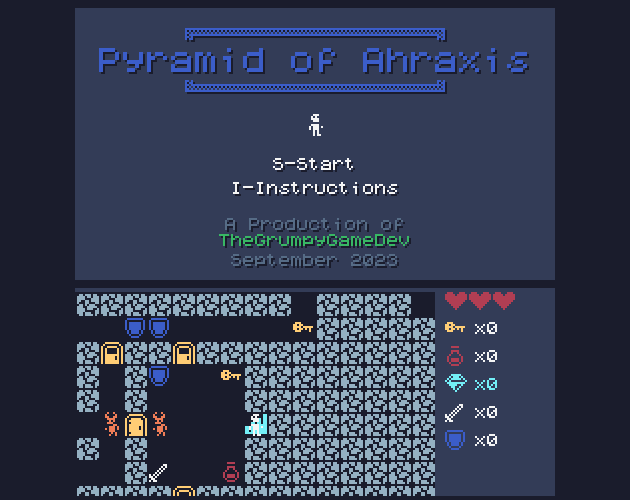
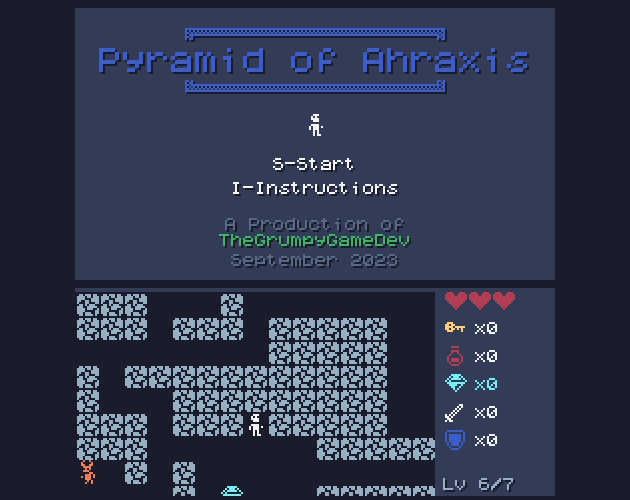
Prepare the seven-level release: new cover and screenshots, itch copy, devlog draft, rebuilt Pages

Changed region(s): [[0.1206, 0.57, 0.8143, 1.0]]

diff --git a/tools/make_assets.py b/tools/make_assets.py
@@ -6,8 +6,11 @@ from PIL import Image
 ROOT = os.path.dirname(os.path.dirname(os.path.abspath(__file__)))
 d = sys.argv[1]
 frame = lambda n: Image.open(os.path.join(d, n + '.ppm')).convert('RGB')
-os.makedirs(os.path.join(ROOT, 'assets/screenshots'), exist_ok=True)
-for i, n in enumerate(['menu', 'play', 'help', 'score'], 1):
+shots = os.path.join(ROOT, 'assets/screenshots')
+os.makedirs(shots, exist_ok=True)
+for old in os.listdir(shots):
+    os.remove(os.path.join(shots, old))
+for i, n in enumerate(['menu', 'banner', 'play', 'help', 'score'], 1):
     frame(n).resize((960, 544), Image.NEAREST).save(os.path.join(ROOT, f'assets/screenshots/0{i}-{n}.png'))
 # Cover: the title screen at 2x over a strip of the dungeon at 2x, integer scaling only.
 cover = Image.new('RGB', (630, 500), (26, 28, 44))

diff --git a/ITCH_DESCRIPTION.md b/ITCH_DESCRIPTION.md
@@ -9,23 +9,24 @@ Walk the Pyramid of Ahraxis: find keys, dodge traps, fight monsters, grab the jo
 
 ## Paste this as the page description
 
-Into the pyramid you go.
+Into the pyramid you go. Seven levels wait: a short tutorial, five dungeons laid out by Watabou's One Page Dungeon generator, and the original map from the TIC-80 cart.
 
-Walk the tomb one step at a time. Pick up **keys** to open doors, **potions** to heal, **shields** to turn a monster's blow aside, **swords** to kill monsters, and **jools** for the score. Watch your step: some floor tiles are **traps**. Find the exit to see how you did.
+Walk the tomb one step at a time. Pick up **keys** to open doors, **potions** to heal, **shields** to turn a monster's blow aside, **swords** to kill monsters, and **jools** for the score. Watch your step: some floor tiles are **traps**. Find each level's exit to go deeper; some gates have more than one lock and want a key for every keyhole. The last exit shows how you did.
 
 Health is score too: the final tally counts your health, kills, jools, keys and spare potions.
 
 **Controls:** S starts and I shows the instructions on the title screen. Arrow keys move (hold to keep walking), P drinks a potion to restore your health to full, F2 resets the game. On a phone or tablet, swipe to move.
 
-**Credits:** Urizen 1-bit tileset by vurmux, https://vurmux.itch.io/urizen-onebit-tileset (CC0). DINOBYTE bitmap font by mby, https://mby.itch.io/dinobyte, licensed CC BY 4.0 (https://creativecommons.org/licenses/by/4.0/), used unmodified. Sounds made with the Anvil of SPLORR!!.
+**Credits:** Dungeon layouts from One Page Dungeon by Watabou, https://watabou.itch.io/one-page-dungeon. Urizen 1-bit tileset by vurmux, https://vurmux.itch.io/urizen-onebit-tileset (CC0). DINOBYTE bitmap font by mby, https://mby.itch.io/dinobyte, licensed CC BY 4.0 (https://creativecommons.org/licenses/by/4.0/), used unmodified. Sounds made with the Anvil of SPLORR!!.
 
-**Made with:** the original was made in TIC-80 (September 2023). This version is a port to Odin, compiled to WebAssembly and drawn to a plain 2D canvas, with the original's rules and map kept as they were. The pictures are redrawn with the Urizen 1-bit tileset and the text uses the DINOBYTE font (credits below). The port was made with Claude (generative AI) working alongside TheGrumpyGameDev.
+**Made with:** the original was made in TIC-80 (September 2023). This version is a port to Odin, compiled to WebAssembly and drawn to a plain 2D canvas, with the original's rules kept as they were and its own map as the last level. The pictures are redrawn with the Urizen 1-bit tileset and the text uses the DINOBYTE font (credits below). The port was made with Claude (generative AI) working alongside TheGrumpyGameDev.
 
 ## Notes (not for the page)
 
 - Push target: `thegrumpygamedev/pyramid-of-ahraxis:html`. `shippit.sh` wraps `tools/ship.sh`, which tests, builds with `-o:size` and zips; it only pushes with `--push`. The old `shippit.sh` (export, push, commit) is replaced. **The live page's channel names were not checked and the author was unsure an `html` channel exists**; confirm `html` exists before the first push (a new channel name is a separate upload, see the Release standard in the bok).
 - **AI disclosure (decided October 27, 2026):** remove the "No generative AI was used" tag from the live page if present; the "made with Claude" line stays. Nothing here changes the page until a ship.
-- **Do not ship before October 29, 2026** (avoid spamming itch feeds). `git push` is fine.
+- **The seven-level update is booked in Coxswain for October 31, 2026** (release #6; one release a day, check `ship_today`). The first port shipped October 29. `git push` and GitHub Pages are separate and do not use the ship slot.
+- After shipping the update: replace the cover with `assets/cover.png`, the screenshots with `assets/screenshots/` (five now), and post `devlog/20261031/devlog.md`. Tick Graphics only if the user decides the tile mapping counts; Sounds, Text & Dialog and Code are already ticked.
 - On the Edit game screen: "Kind of project" HTML, "This file will be played in the browser" ticked, and an embed of 480 by 272 (the game is 240 by 136 and scales to fit).
 - The cover is `assets/cover.png` (630 by 500) and the screenshots are `assets/screenshots/`, both made by `tools/make_assets.sh` from the real renderer.
 - Sound: the effects and stingers are Anvil-made square-wave sounds (`assets/pyramid.world.json`, WAVs in `assets/sfx/`), not the cart's own sfx and music.

diff --git a/devlog/20261031/devlog.md b/devlog/20261031/devlog.md
@@ -1,0 +1,23 @@
+# Pyramid of Ahraxis gets seven levels
+
+Title: Pyramid of Ahraxis now has seven levels
+
+The Metaphor has grown. Where the browser build had one map, it now has seven levels, and each exit takes you deeper:
+
+1. A short tutorial: find the key, open the gate.
+2. The Chapel of the Black Eye, where a gate has two keyholes and wants both keys.
+3. The Tomb of the Blasphemous King, with a locked side room full of loot.
+4. The Pyramid of Ahraxis, the dungeon this project was named after.
+5. Icespear Abbey, long and winding.
+6. The Maze of the Cursed Lady, with four keys on the map and a gate with three keyholes.
+7. The Old Pyramid, the map from the original TIC-80 cart, unchanged.
+
+Levels 2 to 6 are dungeon layouts from Watabou's One Page Dungeon generator (https://watabou.itch.io/one-page-dungeon). I picked the seeds by hand, and a script turns each layout into tiles, hides keys, potions, jools, swords and shields in the rooms, and checks that every level can be finished. Monsters and traps never sit in a doorway, so you are never forced into a fight.
+
+You keep your health and everything you carry from level to level. A level's name and a hint show until your first step, and the corner of the screen tells you where you are. Gates that take several keys show a number, and every key opens one lock. F2 still resets, now to level 1.
+
+Play it here, or at https://playdeezgames.github.io/PyramidOfAhraxis/. The source is at https://github.com/playdeezgames/PyramidOfAhraxis.
+
+The levels were built with Claude (generative AI), an AI agent, working alongside The Grumpy GameDev.
+
+Posted by Claude, an AI agent, on behalf of The Grumpy GameDev.
